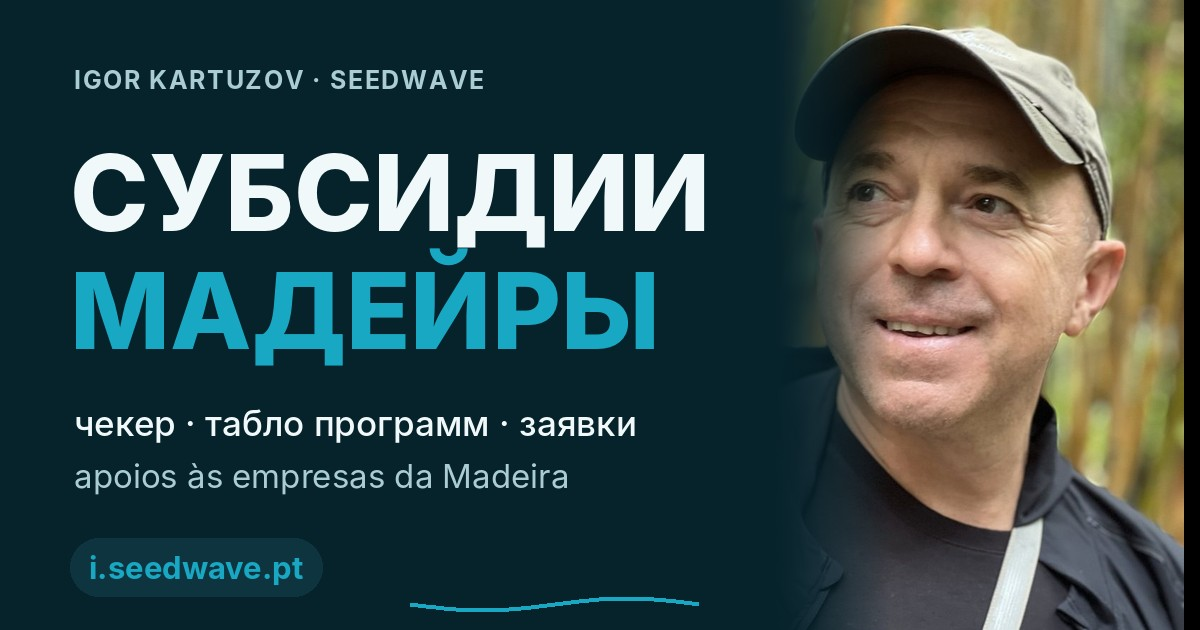
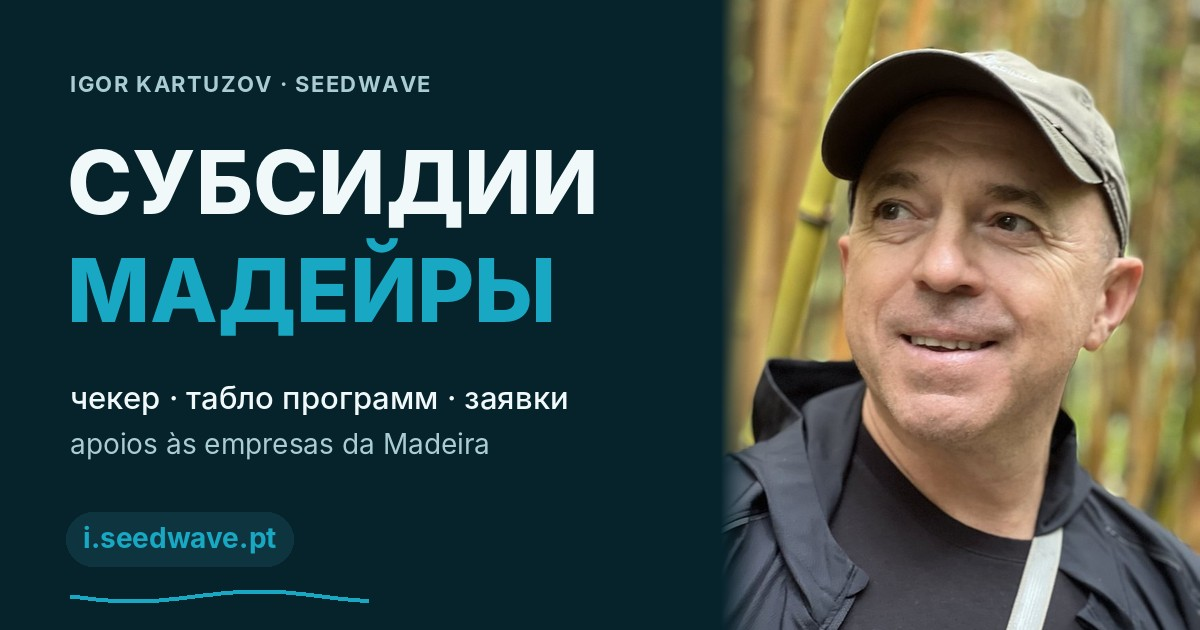
Vizitka: Dubai Madeira -> kartochka proekta v SeedWave Hub; OG v2 bez nalozheniya teksta na foto
- stroka Dubai Madeira vedyot na seedwave.pt/hub/project.html?id=dubai-madeira-cooperative (s ?lang=), a ne v perepisku WhatsApp
- og-card.jpg v2: zagolovok 88 px, tekst ne zakhodit na foto (kontrol v tools/mkog.py), zatemnenie tolko po krayu foto, litso chistoe
- og:image s ?v=2, chtoby messendzhery perezaprosili kartinku
- links.json: klyuch hub_dubai

Claude-Session: https://claude.ai/code/session_01FQnZxeEaaWnvLcHQVsyyFZ

diff --git a/index.html b/index.html
@@ -9,11 +9,11 @@
 <meta property="og:url" content="https://i.seedwave.pt/">
 <meta property="og:title" content="Субсидии для бизнеса на Мадейре — чекер, табло, заявки">
 <meta property="og:description" content="Игорь Картузов — сам веду заявки и сам строю для них инструменты. Все контакты в один тап: WhatsApp, Telegram, почта.">
-<meta property="og:image" content="https://i.seedwave.pt/og-card.jpg">
+<meta property="og:image" content="https://i.seedwave.pt/og-card.jpg?v=2">
 <meta property="og:image:width" content="1200">
 <meta property="og:image:height" content="630">
 <meta name="twitter:card" content="summary_large_image">
-<meta name="twitter:image" content="https://i.seedwave.pt/og-card.jpg">
+<meta name="twitter:image" content="https://i.seedwave.pt/og-card.jpg?v=2">
 
 <link rel="icon" href="icon.svg" type="image/svg+xml">
 <link rel="manifest" href="app.webmanifest">
@@ -293,7 +293,7 @@ footer a:hover{color:var(--accent)}
       <span class="rt"><span class="k" data-i18n="igor_k">Кто я и как работаю</span><span class="v" data-i18n="igor_d">35 лет веду свои бизнесы</span></span>
       <span class="chev"><svg viewBox="0 0 24 24" fill="none" stroke="currentColor" stroke-width="2" stroke-linecap="round" stroke-linejoin="round"><path d="M7 17 17 7M7 7h10v10"/></svg></span>
     </a>
-    <a class="row" id="dmRow" href="https://wa.me/351912916273">
+    <a class="row" data-eco="https://seedwave.pt/hub/project.html?id=dubai-madeira-cooperative" href="https://seedwave.pt/hub/project.html?id=dubai-madeira-cooperative">
       <span class="ic"><svg viewBox="0 0 24 24" fill="none" stroke="currentColor" stroke-width="2" stroke-linecap="round" stroke-linejoin="round"><path d="M3 21h18"/><path d="M6 21V8l6-5 6 5v13"/><path d="M10 11h.01M14 11h.01M10 15h.01M14 15h.01"/></svg></span>
       <span class="rt"><span class="k">Dubai Madeira</span><span class="v" data-i18n="dm_d">инвест-кооператив · жильё</span></span>
       <span class="chev"><svg viewBox="0 0 24 24" fill="none" stroke="currentColor" stroke-width="2" stroke-linecap="round" stroke-linejoin="round"><path d="M7 17 17 7M7 7h10v10"/></svg></span>
@@ -325,40 +325,35 @@ const LOCALES={
       nam_k:"Чекер субсидий", nam_d:"6 вопросов · 2 минуты",
       pn_k:"Табло субсидий", pn_d:"открыто сейчас · сроки",
       igor_k:"Кто я и как работаю", igor_d:"35 лет веду свои бизнесы",
-      dm_d:"инвест-кооператив · жильё",
-      dm_msg:"Здравствуйте, Игорь! Интересует проект Dubai Madeira."},
+      dm_d:"инвест-кооператив · жильё"},
   en:{role:"Business grants in Madeira. I run the applications myself and build the tools for them.",
       save:"Save contact", share:"Forward", copied:"Link copied ✓", qr_label:"Or point your camera — the card opens itself", share_text:"Igor Kartuzov — business grants in Madeira: eligibility checker, board of open programmes, applications.", hint:"Adds the full card with every link — iPhone and Android",
       g_contact:"Contact", g_projects:"Current focus", r_call:"Call", r_email:"Email",
       nam_k:"Grant checker", nam_d:"6 questions · 2 minutes",
       pn_k:"Grants board", pn_d:"open now · deadlines",
       igor_k:"Who I am and how I work", igor_d:"35 years as an operator",
-      dm_d:"investment co-op · housing",
-      dm_msg:"Hello Igor! I'm interested in the Dubai Madeira project."},
+      dm_d:"investment co-op · housing"},
   pt:{role:"Apoios para empresas na Madeira. Conduzo as candidaturas e construo eu próprio as ferramentas.",
       save:"Guardar contacto", share:"Enviar", copied:"Ligação copiada ✓", qr_label:"Ou aponte a câmara — o cartão abre-se sozinho", share_text:"Igor Kartuzov — apoios para empresas na Madeira: verificador, painel dos programas abertos, candidaturas.", hint:"Adiciona o cartão completo com todos os links — iPhone e Android",
       g_contact:"Contactar", g_projects:"Em foco agora", r_call:"Ligar", r_email:"Email",
       nam_k:"Verificador de apoios", nam_d:"6 perguntas · 2 minutos",
       pn_k:"Painel de Apoios", pn_d:"abertos agora · prazos",
       igor_k:"Quem sou e como trabalho", igor_d:"35 anos de operador",
-      dm_d:"cooperativa · habitação",
-      dm_msg:"Olá Igor! Tenho interesse no projeto Dubai Madeira."},
+      dm_d:"cooperativa · habitação"},
   es:{role:"Ayudas para empresas en Madeira. Llevo las solicitudes y construyo yo mismo las herramientas.",
       save:"Guardar contacto", share:"Enviar", copied:"Enlace copiado ✓", qr_label:"O apunta la cámara — la tarjeta se abre sola", share_text:"Igor Kartuzov — ayudas para empresas en Madeira: verificador, panel de programas abiertos, solicitudes.", hint:"Añade la tarjeta completa con todos los enlaces — iPhone y Android",
       g_contact:"Contacto", g_projects:"En foco ahora", r_call:"Llamar", r_email:"Correo",
       nam_k:"Verificador de ayudas", nam_d:"6 preguntas · 2 minutos",
       pn_k:"Panel de ayudas", pn_d:"abiertas ahora · plazos",
       igor_k:"Quién soy y cómo trabajo", igor_d:"35 años como operador",
-      dm_d:"cooperativa · vivienda",
-      dm_msg:"¡Hola Igor! Me interesa el proyecto Dubai Madeira."},
+      dm_d:"cooperativa · vivienda"},
   de:{role:"Förderungen für Unternehmen auf Madeira. Ich führe die Anträge selbst und baue die Werkzeuge dafür.",
       save:"Kontakt speichern", share:"Weiterleiten", copied:"Link kopiert ✓", qr_label:"Oder Kamera draufhalten — die Karte öffnet sich", share_text:"Igor Kartuzov — Förderungen für Unternehmen auf Madeira: Förder-Check, Tafel der offenen Programme, Anträge.", hint:"Fügt die ganze Karte mit allen Links hinzu — iPhone und Android",
       g_contact:"Kontakt", g_projects:"Aktueller Fokus", r_call:"Anrufen", r_email:"E-Mail",
       nam_k:"Förder-Check", nam_d:"6 Fragen · 2 Minuten",
       pn_k:"Fördertafel", pn_d:"jetzt offen · Fristen",
       igor_k:"Wer ich bin und wie ich arbeite", igor_d:"35 Jahre Unternehmer",
-      dm_d:"Genossenschaft · Wohnen",
-      dm_msg:"Hallo Igor! Ich interessiere mich für das Projekt Dubai Madeira."}
+      dm_d:"Genossenschaft · Wohnen"}
 };
 const langBtn=document.getElementById('langBtn'), langpop=document.getElementById('langpop');
 function applyLang(lang){
@@ -366,7 +361,6 @@ function applyLang(lang){
   document.querySelectorAll('[data-i18n]').forEach(el=>{const k=el.dataset.i18n; if(d[k]!=null) el.textContent=d[k];});
   /* сквозной ?lang= во все ссылки экосистемы (мосты через Hub) */
   document.querySelectorAll('[data-eco]').forEach(a=>{const b=a.dataset.eco; a.href=b+(b.includes('?')?'&':'?')+'lang='+lang;});
-  const dm=document.getElementById('dmRow'); if(dm) dm.href='https://wa.me/351912916273?text='+encodeURIComponent(d.dm_msg);
   document.querySelectorAll('#langpop button').forEach(b=>b.setAttribute('aria-current', b.dataset.lang===lang?'true':'false'));
   langBtn.textContent=lang.toUpperCase();   /* код текущего языка в кружке */
   root.setAttribute('lang',lang);

diff --git a/tools/mkog.py b/tools/mkog.py
@@ -1,45 +1,45 @@
-import sys
-from PIL import Image, ImageDraw, ImageFont, ImageFilter
+"""OG-картинка визитки i.seedwave.pt (1200×630). Запуск: python3 tools/mkog.py photo-hero.jpg og-card.jpg
+v2 (10.10.2026): текст не заходит на фото, затемнение только по краю фото (бамбук), лицо чистое."""
+import sys, math
+from PIL import Image, ImageDraw, ImageFont
 src, out = sys.argv[1], sys.argv[2]
-W,H=1200,630
-BG=(6,34,43); INK=(240,248,250); MUTED=(170,204,211); ACC=(25,168,196)
-F='/usr/share/fonts/opentype/inter/'
-def f(name,size): return ImageFont.truetype(F+name,size)
-im=Image.new('RGB',(W,H),BG)
-# photo right
-ph=Image.open(src).convert('RGB')
-scale=720/ph.height
-ph=ph.resize((int(ph.width*scale),int(ph.height*scale)),Image.LANCZOS)
-pw=430
-left=int(ph.width*0.235); top=int(ph.height*0.06)
-crop=ph.crop((left,top,left+pw,top+H))
-im.paste(crop,(W-pw,0))
-# gradient fade from bg to photo
-grad=Image.new('L',(pw,H),0); gd=ImageDraw.Draw(grad)
-for x in range(pw):
-    a=255 if x>120 else int(255*(x/120)**1.6)
-    gd.line([(x,0),(x,H)],fill=255-a)
-ov=Image.new('RGB',(pw,H),BG)
-im.paste(ov,(W-pw,0),grad)
-d=ImageDraw.Draw(im)
-x0=74
-def spaced(xy,text,font,fill,sp):
-    x,y=xy
+W, H = 1200, 630
+BG = (6, 34, 43); INK = (240, 248, 250); MUTED = (170, 204, 211); ACC = (25, 168, 196)
+F = '/usr/share/fonts/opentype/inter/'
+f = lambda n, s: ImageFont.truetype(F + n, s)
+im = Image.new('RGB', (W, H), BG)
+# фото справа: панель 480 px, лицо по центру панели
+ph = Image.open(src).convert('RGB')
+sc = 700 / ph.height
+ph = ph.resize((int(ph.width * sc), int(ph.height * sc)), Image.LANCZOS)
+pw = 480
+left = max(0, min(ph.width - pw, int(430 * sc - pw / 2)))
+top = 18
+im.paste(ph.crop((left, top, left + pw, top + H)), (W - pw, 0))
+# короткий переход только по левому краю фото (40 px, там бамбук)
+fade = 40
+mask = Image.new('L', (fade, H), 0); md = ImageDraw.Draw(mask)
+for x in range(fade):
+    md.line([(x, 0), (x, H)], fill=int(255 * (1 - x / fade) ** 1.5))
+im.paste(Image.new('RGB', (fade, H), BG), (W - pw, 0), mask)
+d = ImageDraw.Draw(im)
+x0 = 70
+def spaced(xy, text, font, fill, sp):
+    x, y = xy
     for ch in text:
-        d.text((x,y),ch,font=font,fill=fill); x+=d.textlength(ch,font=font)+sp
-spaced((x0,64),'IGOR KARTUZOV · SEEDWAVE',f('Inter-Bold.otf',25),MUTED,1.6)
-big=f('Inter-ExtraBold.otf',106)
-d.text((x0-4,128),'СУБСИДИИ',font=big,fill=INK)
-d.text((x0-4,246),'МАДЕЙРЫ',font=big,fill=ACC)
-d.text((x0,402),'чекер · табло программ · заявки',font=f('Inter-Medium.otf',35),fill=INK)
-d.text((x0,456),'apoios às empresas da Madeira',font=f('Inter-Regular.otf',33),fill=MUTED)
-# pill
-pf=f('Inter-Bold.otf',31); t='i.seedwave.pt'; tw=d.textlength(t,font=pf)
-d.rounded_rectangle((x0-4,538,x0+tw+34,596),radius=29,fill=(14,53,63))
-d.text((x0+15,548),t,font=pf,fill=ACC)
-# wave
-import math
-pts=[(410+i, 604+6*math.sin(i/46.0)) for i in range(0,290,2)]
-d.line(pts,fill=ACC,width=4)
-im.save(out,'JPEG',quality=90,optimize=True)
-print(im.size)
+        d.text((x, y), ch, font=font, fill=fill); x += d.textlength(ch, font=font) + sp
+spaced((x0, 70), 'IGOR KARTUZOV · SEEDWAVE', f('Inter-Bold.otf', 22), MUTED, 1.4)
+big = f('Inter-ExtraBold.otf', 88)
+d.text((x0 - 3, 128), 'СУБСИДИИ', font=big, fill=INK)
+d.text((x0 - 3, 236), 'МАДЕЙРЫ', font=big, fill=ACC)
+d.text((x0, 378), 'чекер · табло программ · заявки', font=f('Inter-Medium.otf', 31), fill=INK)
+d.text((x0, 426), 'apoios às empresas da Madeira', font=f('Inter-Regular.otf', 28), fill=MUTED)
+pf = f('Inter-Bold.otf', 28); t = 'i.seedwave.pt'; tw = d.textlength(t, font=pf)
+d.rounded_rectangle((x0 - 4, 512, x0 + tw + 30, 566), radius=27, fill=(14, 53, 63))
+d.text((x0 + 13, 520), t, font=pf, fill=ACC)
+d.line([(x0 + i, 596 + 5 * math.sin(i / 40.0)) for i in range(0, 300, 2)], fill=ACC, width=4)
+# контроль: правый край текста не заходит на фото
+right = max(x0 - 3 + d.textlength('СУБСИДИИ', font=big), x0 + d.textlength('чекер · табло программ · заявки', font=f('Inter-Medium.otf', 31)))
+assert right < W - pw - 30, right
+im.save(out, 'JPEG', quality=90, optimize=True)
+print(im.size, 'text right edge', int(right), 'photo starts', W - pw)
